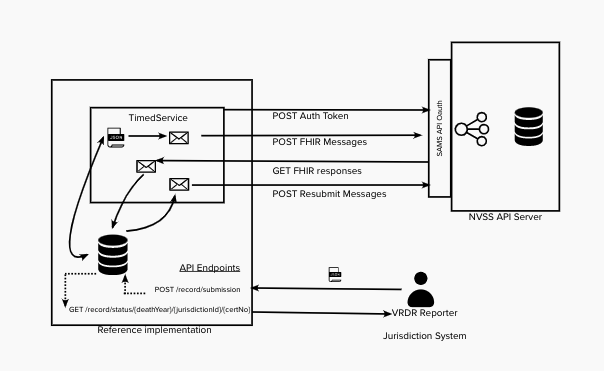
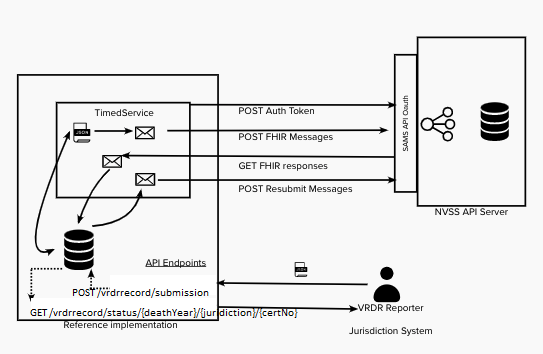
updated the diagram

Changed region(s): [[0.0295, 0.0932, 0.9724, 0.9633]]

diff --git a/README.md b/README.md
@@ -154,7 +154,7 @@ This project uses dotnet and docker to run the local database.
 1. Create a FHIR Record. The standard that specifies this format can be found at following depending on type of records
 	[VRDR](https://nightingaleproject.github.io/vital_records_fhir_messaging_ig/v2.0.0/onnectathon/).
 		There are also two public library implementations available to assist in the creation of FHIR Records, [VRDR-dotnet](https://github.com/nightingaleproject/vrdr-dotnet) and [VRDR_javalib](https://github.com/MortalityReporting/VRDR_javalib).
-   		There are also two public library implementations available to assist in the creation of FHIR Records,[BRDR-Examples](https://github.com/nightingaleproject/vital-records-dotnet/tree/main/projects/BFDR.Tests/fixtures/json).
+   		There are json examples available to assist in the creation of FHIR Records,[BRDR-Examples](https://github.com/nightingaleproject/vital-records-dotnet/tree/main/projects/BFDR.Tests/fixtures/json).
 			
 2. Submit the record using a POST request to the `/vrdrrecord/submission` or `/bfdrrecord/submission` or `/ftdrrecord/submission` endpoint. The following example demonstrates how to make the request using [curl](https://curl.se/):
 ```
